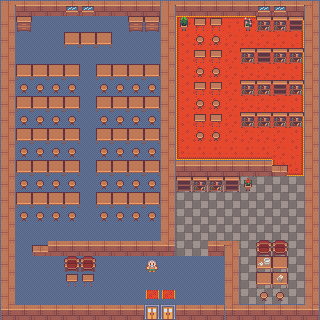
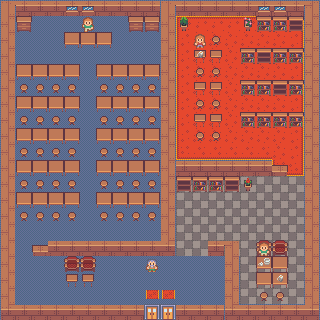
ok

Changed region(s): [[0.5938, 0.0312, 0.7188, 0.1875], [0.25, 0.0312, 0.3125, 0.0938], [0.8125, 0.75, 0.8438, 0.8125]]

diff --git a/script/deplacement.js b/script/deplacement.js
@@ -1,5 +1,4 @@
 document.getElementById('mapzone').style.backgroundImage = "url('data/main-map.png')"
-document.getElementById('mapzone').style.animation = "fadein 2s"
 
 let mobile = document.querySelector("#mobile");
 // Position initiale de mon élément
@@ -14,12 +13,12 @@ let valeurs1 = []
 		[' ', ' ', ' ', '-', '-', '-', '-', '-', '-', '-', '-', '-', '-', '-', '-', '-', '-', '-', '-', '-', ' '],
 		[' ', ' ', ' ', '-', '-', '-', '-', '-', '-', '-', '-', '-', '-', '-', '-', '-', '-', '-', '-', ' ', ' '],
 		['*', ' ', '#', '-', '-', '-', '-', '-', '-', '-', '-', '-', '-', '-', '-', '-', '-', '-', '-', ' ', ' '],
+		[' ', ' ', ' ', '-', '-', '-', '-', '-', '-', '-', '-', '-', '-', '-', '-', '-', '-', '-', '-', ' ', '+'],
 		[' ', ' ', ' ', '-', '-', '-', '-', '-', '-', '-', '-', '-', '-', '-', '-', '-', '-', '-', '-', ' ', ' '],
 		[' ', ' ', ' ', '-', '-', '-', '-', '-', '-', '-', '-', '-', '-', '-', '-', '-', '-', '-', '-', ' ', ' '],
 		[' ', ' ', ' ', '-', '-', '-', '-', '-', '-', '-', '-', '-', '-', '-', '-', '-', '-', '-', '-', ' ', ' '],
-		[' ', ' ', ' ', '-', '-', '-', '-', '-', '-', '-', '-', '-', '-', '-', '-', '-', '-', '-', '-', ' ', ' '],
-		[' ', ' ', ' ', '-', '-', '-', '-', '-', '-', '-', '!', '!', '-', '-', '-', '-', '-', '-', '-', '+', ' '],
-		[' ', ' ', ' ', '-', '-', '-', ' ', ' ', ' ', '-', ' ', ' ', '-', ' ', ' ', ' ', '-', '-', '-', ' ', ' '],
+		[' ', ' ', ' ', '-', '-', '-', '-', '-', '-', '-', '!', '!', '-', '-', '-', '-', '-', '-', '-', ' ', ' '],
+		[' ', ' ', ' ', '-', '-', '-', ' ', ' ', ' ', '-', ' ', ' ', '-', '+', ' ', ' ', '-', '-', '-', ' ', ' '],
 		[' ', ' ', ' ', '-', '-', '-', ' ', '-', ' ', ' ', ' ', ' ', ' ', ' ', '-', ' ', '-', '-', '-', ' ', ' '],
 		[' ', ' ', ' ', '-', '-', '-', ' ', '-', ' ', ' ', ' ', ' ', ' ', ' ', '-', ' ', '-', '-', '-', ' ', '*'],
 		[' ', ' ', ' ', '-', '_', '-', ' ', ' ', ' ', ' ', ' ', ' ', ' ', ' ', ' ', ' ', '-', '~', '-', ' ', ' '],
@@ -28,15 +27,15 @@ let valeurs1 = []
 		[' ', ' ', ' ', ' ', ' ', ' ', ' ', ' ', ' ', ' ', ' ', ' ', ' ', ' ', ' ', ' ', ' ', ' ', ' ', ' ', ' '],
 		[' ', ' ', ' ', ' ', ' ', ' ', '*', ' ', ' ', ' ', ' ', ' ', ' ', ' ', ' ', ' ', ' ', ' ', ' ', ' ', ' '],
 		[' ', ' ', ' ', '-', '-', ' ', ' ', ' ', ' ', ' ', ' ', ' ', ' ', '-', '-', ' ', ' ', ' ', ' ', ' ', ' '],
-		[' ', ' ', ' ', ' ', ' ', ' ', ' ', ' ', ' ', ' ', ' ', ' ', ' ', ' ', ' ', ' ', ' ', ' ', ' ', ' ', ' '],
-		['+', ' ', ' ', ' ', ' ', ' ', ' ', ' ', '-', '-', ' ', ' ', ' ', ' ', ' ', ' ', ' ', '-', '-', ' ', '+']
+		['+', ' ', ' ', ' ', ' ', ' ', ' ', ' ', ' ', ' ', ' ', ' ', ' ', ' ', ' ', ' ', ' ', ' ', ' ', ' ', ' '],
+		[' ', ' ', ' ', ' ', ' ', ' ', ' ', ' ', '-', '-', ' ', ' ', ' ', ' ', ' ', ' ', ' ', '-', '-', ' ', ' ']
 	]
     let valeurs2 = []
     valeurs2 = [
 		['-', '-', '-', '-', '-', '-', '-', '-', '-', '-', '-', '-', '-', '-', '-', '-', '-', '-', '-', '-', '-'],
-		['-', '-', '-', '-', ' ', ' ', ' ', ' ', '-', '-', '-', '-', '-', '-', '-', '-', '-', '-', '-', '-', '-'],
+		['-', '-', '-', '*', '-', ' ', ' ', ' ', '-', '+', '-', '-', '-', '-', '-', '-', '-', '-', '-', '+', '-'],
 		['-', '-', ' ', ' ', ' ', ' ', ' ', ' ', ' ', ' ', '-', '-', ' ', ' ', ' ', ' ', ' ', ' ', ' ', ' ', '-'],
-		['-', '-', ' ', '+', ' ', ' ', ' ', ' ', ' ', ' ', '-', '-', ' ', ' ', ' ', ' ', ' ', ' ', ' ', ' ', '-'],
+		['-', '-', ' ', ' ', ' ', ' ', ' ', ' ', ' ', ' ', '-', '-', ' ', ' ', ' ', ' ', ' ', ' ', ' ', ' ', '-'],
 		['-', '-', '-', '-', '-', ' ', '-', '-', '-', ' ', '-', '-', '-', '-', '-', ' ', ' ', '-', '-', '-', '-'],
 		['-', '-', ' ', ' ', ' ', ' ', ' ', ' ', ' ', ' ', '-', '-', ' ', ' ', ' ', ' ', ' ', ' ', ' ', ' ', '-'],
 		['-', '-', '-', '-', '-', ' ', '-', '-', '-', ' ', '-', '-', ' ', ' ', ' ', ' ', ' ', ' ', ' ', ' ', '-'],
@@ -44,23 +43,23 @@ let valeurs1 = []
 		['-', '-', ' ', ' ', ' ', ' ', ' ', ' ', ' ', ' ', '-', '-', ' ', ' ', ' ', ' ', ' ', ' ', ' ', ' ', '-'],
 		['-', '-', '-', '-', '-', ' ', '-', '-', '-', ' ', '-', '-', ' ', ' ', ' ', ' ', ' ', ' ', ' ', ' ', '-'],
 		['-', '-', ' ', ' ', ' ', ' ', ' ', ' ', ' ', ' ', '-', '-', '-', '-', ' ', ' ', '-', '-', '-', '-', '-'],
-		['-', '-', ' ', ' ', ' ', ' ', ' ', '+', ' ', ' ', '-', '-', ' ', ' ', ' ', ' ', '-', '-', '-', '-', '-'],
+		['-', '-', ' ', ' ', ' ', ' ', ' ', ' ', ' ', ' ', '-', '-', ' ', ' ', ' ', ' ', '-', '-', '-', '-', '-'],
 		['-', '-', '-', '-', '-', ' ', '-', '-', '-', ' ', '-', '-', ' ', ' ', '-', '-', '-', '-', '-', '-', '-'],
 		['-', '-', ' ', ' ', ' ', ' ', ' ', ' ', ' ', ' ', '-', '-', ' ', ' ', '-', '-', '-', '-', '-', '-', '-'],
-		['-', '-', ' ', ' ', ' ', ' ', ' ', ' ', ' ', ' ', '-', '-', ' ', ' ', ' ', ' ', ' ', ' ', ' ', ' ', '-'],
-		['-', '-', '-', '-', ' ', ' ', '-', '-', '-', '-', '-', '-', ' ', ' ', ' ', ' ', ' ', ' ', '+', ' ', '-'],
-		['-', '-', ' ', ' ', ' ', ' ', ' ', ' ', ' ', '*', ' ', ' ', ' ', ' ', ' ', ' ', ' ', ' ', ' ', ' ', '-'],
-		['-', '-', ' ', ' ', ' ', ' ', ' ', ' ', ' ', ' ', ' ', ' ', ' ', ' ', ' ', ' ', ' ', '#', ' ', ' ', '-'],
+		['-', '-', ' ', ' ', ' ', ' ', ' ', ' ', ' ', '#', '-', '-', ' ', ' ', ' ', ' ', ' ', ' ', ' ', ' ', '-'],
+		['-', '-', '-', '-', ' ', ' ', '-', '-', '-', '-', '-', '-', ' ', ' ', ' ', ' ', ' ', ' ', ' ', ' ', '-'],
+		['-', '-', ' ', ' ', ' ', ' ', ' ', ' ', ' ', ' ', ' ', ' ', ' ', ' ', ' ', ' ', ' ', ' ', ' ', ' ', '-'],
+		['-', '-', ' ', ' ', ' ', ' ', ' ', ' ', ' ', ' ', ' ', ' ', ' ', ' ', ' ', ' ', ' ', ' ', ' ', '+', '-'],
 		['-', '-', ' ', ' ', ' ', ' ', ' ', ' ', ' ', ' ', ' ', ' ', ' ', ' ', ' ', ' ', ' ', ' ', ' ', ' ', '-'],
 		['-', '-', '-', '-', '-', '-', '-', '-', '-', '-', 'O', 'O', '-', '-', '-', '-', '-', '-', '-', '-', '-']
 	]
     let valeurs3 = []
     valeurs3 = [
         ['-', '-', '-', '-', '-', '-', '-', '-', '-', '-', '-', '-', '-', '-', '-', '-', '-', '-', '-', '-', '-'],
-		['-', '-', ' ', ' ', ' ', ' ', ' ', ' ', ' ', ' ', '-', '-', '-', ' ', '-', '-', '-', '-', '-', '-', '-'],
-		['-', '-', ' ', ' ', ' ', ' ', ' ', ' ', ' ', ' ', '-', '-', '-', ' ', '-', '-', '-', '-', '-', '-', '-'],
-		['-', '-', ' ', ' ', ' ', '-', '-', '-', ' ', ' ', '-', '-', '-', ' ', ' ', ' ', ' ', ' ', ' ', '+', '-'],
-		['-', '-', ' ', ' ', ' ', ' ', ' ', ' ', ' ', ' ', '-', '-', '-', ' ', '-', '-', '-', '-', '-', '-', '-'],
+		['-', '-', '+', ' ', ' ', ' ', ' ', ' ', ' ', ' ', '-', '-', '-', ' ', '-', '-', '-', '-', '-', '-', '-'],
+		['-', '-', ' ', ' ', ' ', ' ', '-', '*', ' ', ' ', '-', '-', '-', ' ', '-', '-', '-', '-', '-', '-', '-'],
+		['-', '-', ' ', ' ', ' ', '-', '-', '-', ' ', ' ', '-', '-', '-', ' ', ' ', ' ', ' ', ' ', ' ', ' ', '-'],
+		['-', '-', ' ', ' ', ' ', ' ', ' ', ' ', ' ', ' ', '-', '-', '-', ' ', '-', '-', '-', '-', '-', '+', '-'],
 		['-', '-', '-', '-', '-', ' ', ' ', '-', '-', '-', '-', '-', '-', ' ', ' ', ' ', ' ', ' ', ' ', ' ', '-'],
 		['-', '-', ' ', ' ', ' ', ' ', ' ', ' ', ' ', ' ', '-', '-', '-', ' ', ' ', ' ', ' ', ' ', ' ', ' ', '-'],
 		['-', '-', ' ', ' ', ' ', ' ', ' ', ' ', ' ', ' ', '-', '-', '-', ' ', '-', '-', '-', '-', '-', '-', '-'],
@@ -69,20 +68,20 @@ let valeurs1 = []
 		['-', '-', ' ', ' ', ' ', ' ', ' ', ' ', '#', ' ', '-', '-', '-', ' ', ' ', ' ', ' ', ' ', ' ', ' ', '-'],
 		['-', '-', '-', '-', '-', ' ', ' ', '-', '-', '-', '-', '-', '-', ' ', ' ', ' ', ' ', ' ', ' ', ' ', '-'],
 		['-', '-', ' ', ' ', ' ', ' ', ' ', ' ', ' ', ' ', '-', '-', '-', '-', '-', '-', '-', ' ', ' ', ' ', '-'],
-		['-', '-', ' ', ' ', ' ', ' ', ' ', ' ', ' ', ' ', '-', '-', '-', '-', '-', '-', ' ', ' ', ' ', ' ', '-'],
+		['-', '-', ' ', ' ', ' ', ' ', ' ', ' ', ' ', ' ', '-', '-', '+', '-', '-', '-', ' ', ' ', ' ', ' ', '-'],
 		['-', '-', ' ', ' ', ' ', ' ', ' ', ' ', ' ', ' ', '-', ' ', ' ', ' ', ' ', ' ', ' ', ' ', ' ', ' ', '-'],
 		['-', '-', ' ', ' ', ' ', '-', '-', '-', '-', '-', '-', ' ', ' ', ' ', ' ', ' ', ' ', ' ', ' ', ' ', '-'],
-		['-', '-', ' ', ' ', ' ', ' ', ' ', ' ', ' ', '*', ' ', ' ', ' ', ' ', ' ', ' ', '+', ' ', ' ', ' ', '-'],
-		['-', '-', '+', ' ', ' ', ' ', ' ', ' ', ' ', ' ', ' ', ' ', ' ', ' ', ' ', ' ', ' ', ' ', ' ', ' ', '-'],
 		['-', '-', ' ', ' ', ' ', ' ', ' ', ' ', ' ', ' ', ' ', ' ', ' ', ' ', ' ', ' ', ' ', ' ', ' ', ' ', '-'],
-		['-', '-', '-', '-', '-', '-', '-', '-', '-', '-', 'O', '-', '-', '-', '-', '-', '-', '-', '-', '-', '-']	
+		['-', '-', ' ', ' ', ' ', ' ', ' ', ' ', ' ', ' ', ' ', ' ', ' ', ' ', ' ', ' ', ' ', ' ', ' ', ' ', '-'],
+		['-', '-', ' ', ' ', ' ', ' ', ' ', ' ', ' ', ' ', ' ', ' ', ' ', ' ', ' ', ' ', ' ', ' ', ' ', ' ', '-'],
+		['-', '-', '-', '-', '-', '-', '-', '-', '-', '-', 'O', 'O', '-', '-', '-', '-', '-', '-', '-', '-', '-']	
     ]
     let valeurs4 = []
     valeurs4=
 [
     ['-', '-', '-', '-', '-', '-', '-', '-', '-', '-', '-', '-', '-', '-', '-', '-', '-', '-', '-', '-', '-'],
-    ['-', '-', '-', ' ', ' ', ' ', ' ', ' ', ' ', '-', '-', '-', '-', '-', '-', ' ', ' ', '-', '-', '-', '-'],
-    ['-', '-', ' ', ' ', ' ', '-', '-', '-', ' ', ' ', ' ', '-', ' ', ' ', ' ', ' ', ' ', ' ', ' ', ' ', '-'],
+    ['-', '-', '-', ' ', ' ', ' ', 'P', ' ', ' ', '-', '-', '-', '-', ' ', ' ', ' ', ' ', '-', '-', '-', '-'],
+    ['-', '-', ' ', ' ', ' ', '-', '-', '-', ' ', ' ', ' ', '-', ' ', 'P', ' ', ' ', ' ', ' ', ' ', ' ', '-'],
     ['-', '-', ' ', ' ', ' ', ' ', ' ', ' ', ' ', ' ', ' ', '-', ' ', '-', '-', ' ', ' ', '-', '-', '-', '-'],
     ['-', '-', '-', '-', '-', '-', ' ', '-', '-', '-', '-', '-', ' ', ' ', ' ', ' ', ' ', ' ', ' ', ' ', '-'],
     ['-', '-', ' ', ' ', ' ', ' ', ' ', ' ', ' ', ' ', ' ', '-', ' ', '-', '-', ' ', ' ', '-', '-', '-', '-'],
@@ -95,8 +94,8 @@ let valeurs1 = []
     ['-', '-', '-', '-', '-', '-', ' ', '-', '-', '-', '-', '-', ' ', ' ', ' ', ' ', ' ', ' ', ' ', ' ', '-'],
     ['-', '-', ' ', ' ', ' ', ' ', ' ', ' ', ' ', ' ', ' ', '-', ' ', ' ', ' ', ' ', ' ', ' ', ' ', ' ', '-'],
     ['-', '-', ' ', ' ', ' ', ' ', ' ', ' ', ' ', ' ', ' ', '-', ' ', ' ', ' ', ' ', ' ', ' ', ' ', ' ', '-'],
-    ['-', '-', ' ', '-', '-', '-', '-', '-', '-', '-', '-', '-', ' ', ' ', '-', '-', ' ', '-', '-', ' ', '-'],
-    ['-', '-', ' ', ' ', ' ', '-', '-', ' ', ' ', ' ', ' ', ' ', ' ', ' ', ' ', '-', ' ', '-', '-', ' ', '-'],
+    ['-', '-', ' ', '-', '-', '-', '-', '-', '-', '-', '-', '-', ' ', ' ', '-', '-', ' ', 'P', '-', ' ', '-'],
+    ['-', '-', ' ', ' ', ' ', '-', '-', ' ', ' ', ' ', 'P', ' ', ' ', ' ', ' ', '-', ' ', '-', '-', ' ', '-'],
     ['-', '-', ' ', ' ', ' ', '-', '-', ' ', ' ', ' ', ' ', ' ', ' ', ' ', ' ', '-', ' ', '-', '-', ' ', '-'],
     ['-', '-', ' ', ' ', ' ', ' ', ' ', ' ', ' ', ' ', ' ', ' ', ' ', ' ', ' ', '-', ' ', ' ', ' ', ' ', '-'],
     ['-', '-', '-', '-', '-', '-', '-', '-', '-', '-', 'O', 'O', '-', '-', '-', '-', '-', '-', '-', '-', '-']
@@ -106,7 +105,7 @@ function recup_livre(){
     if (valeurs[ligne][colonne] == "+"){
         if( window.confirm("voulez-vous déposer votre CV ici ?") ){
             livres++
-            valeurs[ligne][colonne] = ' '
+            valeurs[ligne][colonne] = '-'
         }
     }
 }
@@ -161,7 +160,7 @@ function open_door3(){
             valeurs=valeurs4
             ligne = 18
             colonne = 10
-            stepdor = 3      
+            stepdor = 3    
             }
         }
         else if(key<3 ){
@@ -176,7 +175,7 @@ function dialogue(){
         parole++
         if (parole == 1){
             alert('Bonjour et bienvenu à hetic !')
-            alert('Pour décrocher ton stage  et etres eventuellement recruter, tu doit déposer ton CV dans 9 sociétés cachés sur les différentes maps...')
+            alert('Pour décrocher ton stage  et etres eventuellement recruter, tu doit déposer ton CV dans 9 boites disponnibles dans les différentes maps...')
             alert('Pour accéder aux salles secondaires il te faut récupérer 3 clés que tu trouvera à différents endroit...')
         }else if (parole == 2){
             if(prompt('Bonjour, avez vous besoin d\'aide?') == 'oui'){
@@ -187,13 +186,13 @@ function dialogue(){
             prompt('parlez a ce personnage')
             alert('je n\'ai pas de temps à perdre')
         }
-        else if (parole == 3){
+        else if (parole == 4){
             if(livres < 3){
                 alert('Attention je vois que tu n\'a pas déposer assez de CV dans la map précédente, tu peut toujours y retourner.')
             }
             else {alert('Salut, bravo tu à franchi la première étape, à toi d\'augmenter tes chances en postulant d\'avantage ici, good luck')}
         }
-        else if (parole == 4){
+        else if (parole == 5){
             if(livres < 6){
                 alert('Attention je vois que tu n\'a pas déposer assez de CV dans la map précédente, tu peut toujours y retourner.')
             }
@@ -203,9 +202,49 @@ function dialogue(){
         
     }
 }
+let perso = 0
+function stepoff(){
+    if (valeurs[ligne][colonne] == "P"){
+        perso++
+        if (perso == 1){
+            alert('Bonjour, je pense que vous rechercher la conseillère. Elle se situe dans la salle du haut')
+        }
+        else if (perso == 2){
+            if(livres < 9){
+                alert(' Bonjour, revenez me voir lorsque vous aurez déposé tous vos CV.')
+            }
+        }
+        else if (perso == 3){
+            if(livres == 9){
+                alert('Félicitation, vous avez déposé tous vos CV et vous avez décroché un entretien. Le directeur de la boîte vous attends dans la salle près de l\'accueil, allez-y sans tarder !  .')
+            }
+        }
+        else if (perso == 4){
+            alert("Bonjour, j'ai une liste de 10 questions en culture générale si vous répondez correctement à 7 questions vous obtenez votre stage chez nous.")
+        }
+        else if (paroles == 5){
+            if(prompt("La dernière version de HTML est... ") == 'HTMTL5'){
+                prompt("Le ... est un langage informatique incontournable pour la mise en forme des pages sur internet.","CSS")
+                prompt("Le CMS le plus utilisé est ...", "wordPress")
+                prompt("La signification de HTML est...", " HyperTextLanguage Markup ?")
+                prompt("VRAI ou FAUX - Les balises <HTML> et </HTML> sont placés dans le corps <BODY> d'un document HTML","faux")
+                prompt("La balise <...> te permettra de mettre en gras un mot ?","em")
+                prompt(" Dans la norme HTML, il existe ... niveaux de titres.","6")
+                prompt("La balise <...> est utilisé pour faire un changement de ligne?","br")
+                prompt("Dans les niveaux de titre, <...> donnent la plus petite taille.","H6")
+                prompt("HTML est considéré comme un language de ...","balisage")
+
+            }
+        }
+        valeurs[ligne][colonne] = '-'         
+    }
+}
 let stepdor = 0
 function exit(stepdor){
     if (valeurs[ligne][colonne] == "O"){
+        document.getElementById('mapzone').style.backgroundImage = "url('data/main-map.png')"
+        document.getElementById('mapzone').style.animation = "fadein 2s"
+        valeurs=valeurs1
         if( window.confirm("voulez-vous sortir de la salle ?")){
             if (stepdor == 1){
                 ligne = 14
@@ -216,11 +255,7 @@ function exit(stepdor){
             }else if (stepdor == 3){
                 ligne = 10
                 colonne = 11
-            }
-            document.getElementById('mapzone').style.backgroundImage = "url('data/main-map.png')"
-            document.getElementById('mapzone').style.animation = "fadein 2s"
-            valeurs=valeurs1
-            
+            }            
         }
     }
 }
@@ -258,6 +293,7 @@ function deplacement(event) {
                 open_door2()
                 open_door3()
                 dialogue()
+                stepoff()  
                 exit(stepdor)
             }
         }
@@ -277,6 +313,7 @@ function deplacement(event) {
                 open_door2()
                 open_door3()                
                 dialogue()
+                stepoff()  
                 exit(stepdor)
             }
         }
@@ -295,6 +332,7 @@ function deplacement(event) {
                 open_door2()
                 open_door3()                
                 dialogue()
+                stepoff()  
                 exit(stepdor)
             }
         }
@@ -313,6 +351,7 @@ function deplacement(event) {
                 open_door2()
                 open_door3()
                 dialogue()
+                stepoff()  
                 exit(stepdor)
             }
         }
